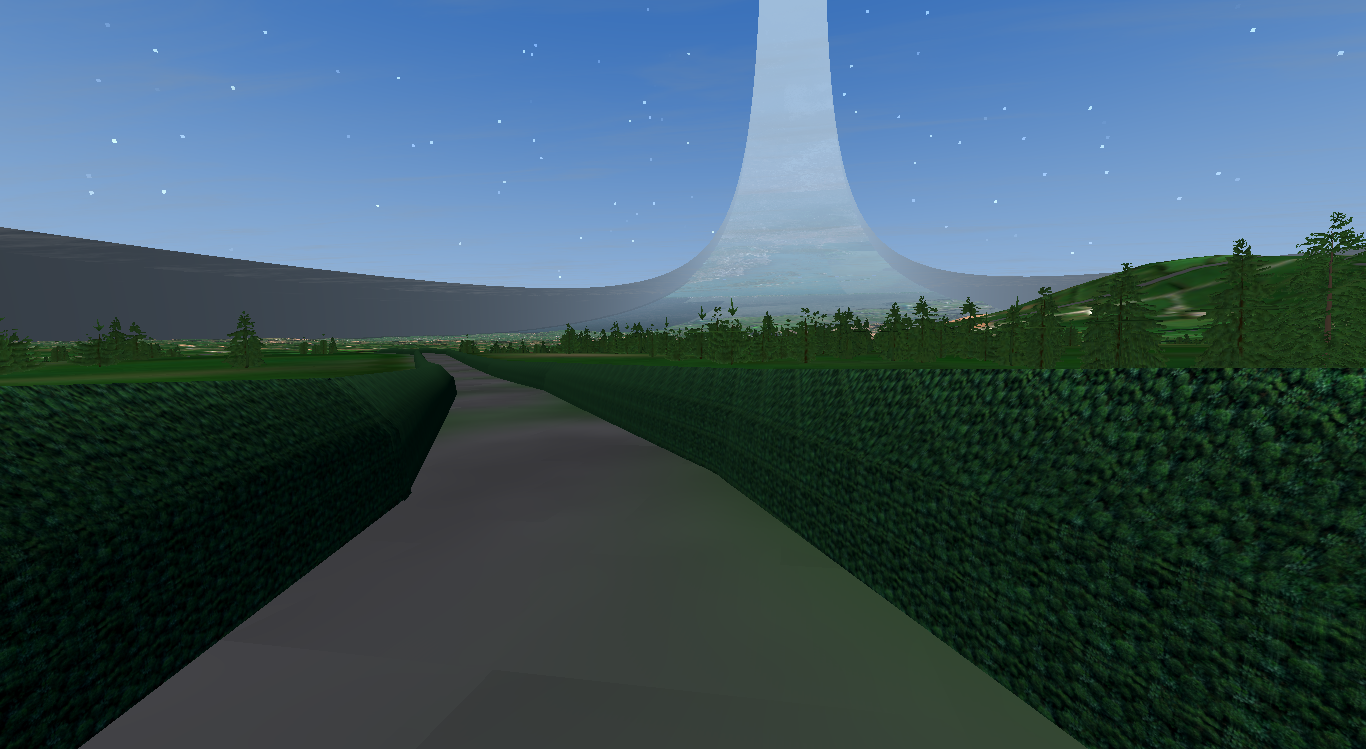
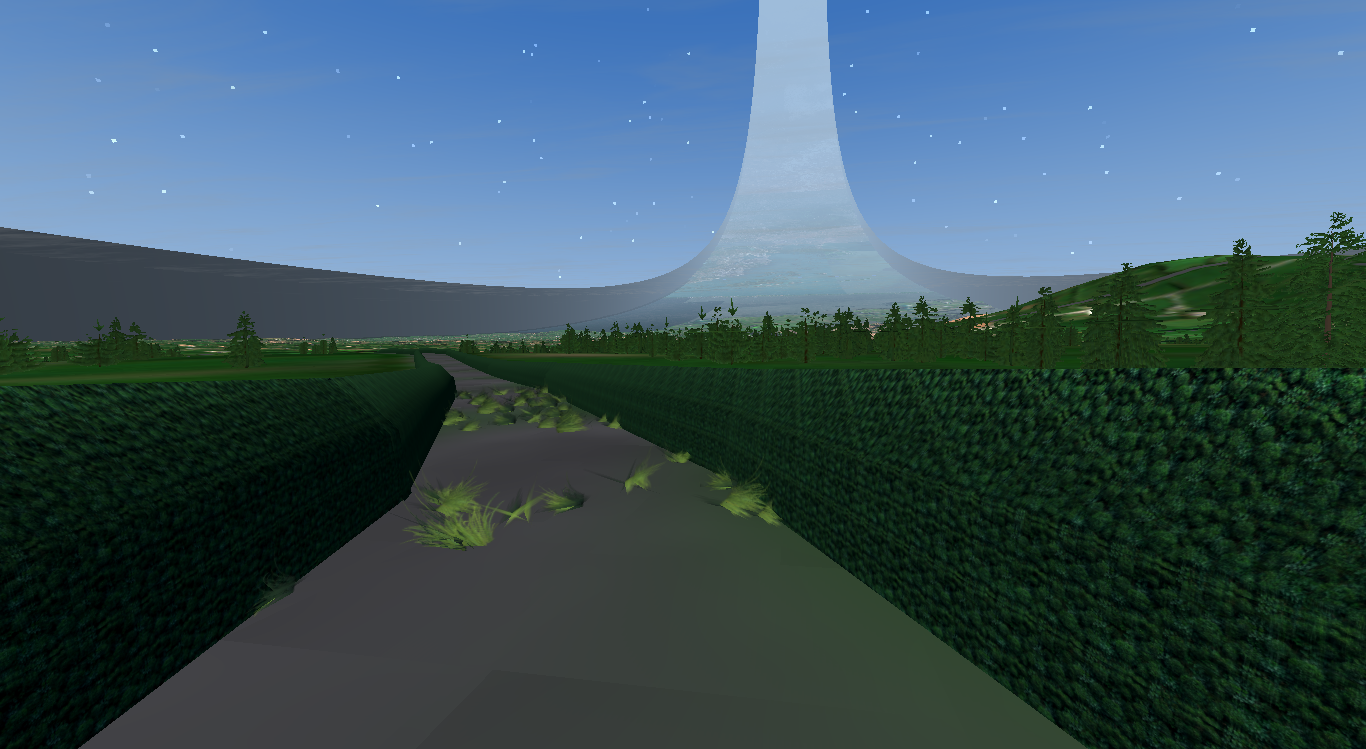
feat: grass ground cover from the unused pack; species variety still blocked
Opened both unused asset packs. The grass pack is now close-range ground cover:
a 42m bubble following the camera, ~3k instances, +12k tris. Worth it because
the drape is 11 m/px at best, so the ground under the car had no SHAPE at all --
the noise overlay breaks up its colour but gives nothing parallax can read, and
parallax in the near field is most of what sells speed when driving.

Two resolution bugs on the way, both the same mistake in different places:

1. Grass rejected everywhere. I gated it on the road mask again -- 44m per cell
   against a 42m grass radius, so every candidate read as on-road. Exactly the
   error I had diagnosed for the hedge junctions an hour earlier.
2. Grass then grew down the middle of the carriageway, because the replacement
   8m road-cell set only marked cells containing OSM NODES, and OSM only puts a
   node where a road turns -- so a 200m straight was unmarked between its ends.
   Now walks the segments at 5m.

Also: the pack's clumps are authored small and were 5cm specks at my first
scale, invisible from a car. 3.0-6.5x.

HONEST GAP, queued rather than glossed: this does not fix species variety. The
spruce pack is a second conifer. There is no teak, palm, fynbos or birch in
assets/, so Java, Cape and Lofoten are still tinted Irish firs. That needs
models downloading, not code.

diff --git a/TASKS.md b/TASKS.md
@@ -29,10 +29,13 @@ Rules:
       smoothly along a run, position-hashed gaps for gateways. Still one PROFILE and one texture —
       a stone wall currently differs from a hedge only in size and tint, which will not survive
       being looked at. Needs its own geometry when the vegetation import lands.
-- [ ] **Vegetation model imports.** The fir pack is the only tree asset and it is doing Java, Cape
-      fynbos and Lofoten birch scrub via a colour tint. Import proper species; check
-      `assets/grass_pack_of_9_vars_lowpoly_game_ready.zip` and `low_poly_red_spruce_tree...zip`
-      which are unused.
+- [x] **Vegetation model imports.** Both unused packs opened. Grass pack is now close-range ground
+      cover (42m bubble, ~3k instances, +12k tris) — the biggest win, since the drape is 11 m/px at
+      best and the near field had no shape at all.
+- [ ] **STILL NO SPECIES VARIETY — blocked on assets.** The spruce pack is a second CONIFER, so it
+      does not help. There is no teak, palm, fynbos or birch in `assets/`, which means Java, Cape
+      and Lofoten are still tinted Irish firs. This needs downloading models, not code. Candidates:
+      a broadleaf, a palm, a low scrub bush.
 - [ ] **Triangle budget.** 727k tris / 13 fps at ground level in the home patch, trees dominating
       (24k instances, 24k billboards). Profile per system, then cut. Driving at 13 fps is not fun.
 - [ ] **Rolling wheels.** The car's wheels do not turn or steer. Also suspension travel over the
